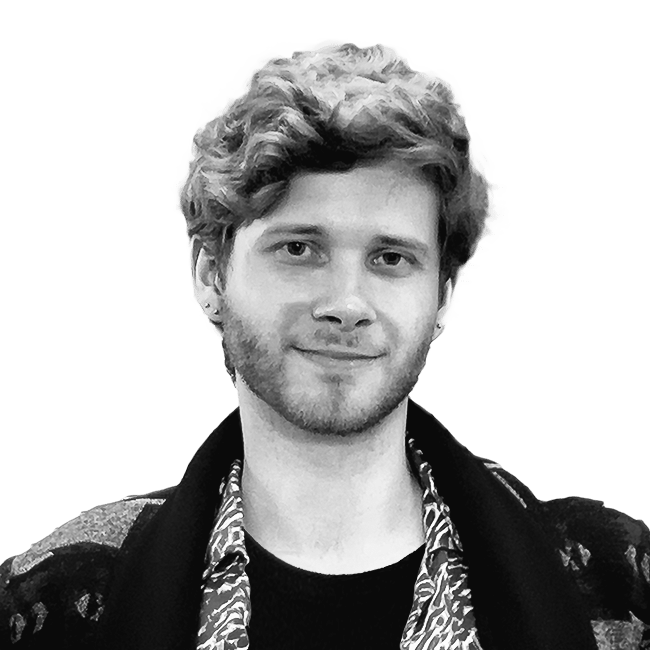
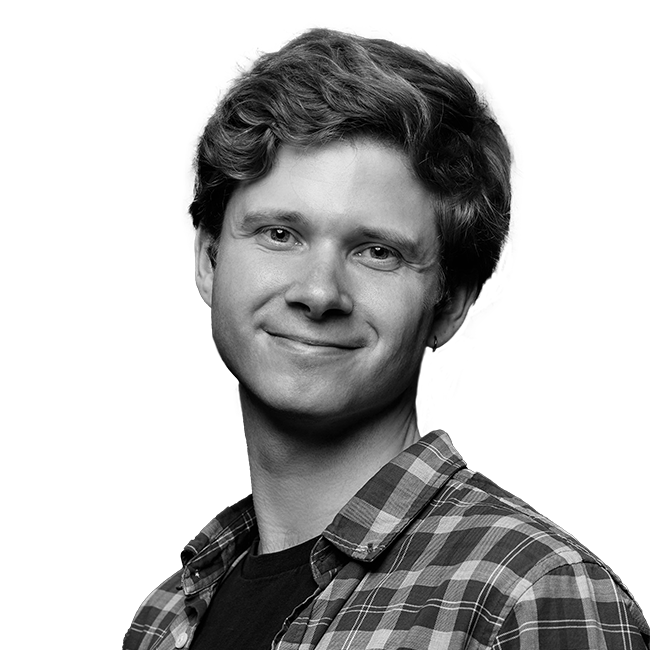
Update profile photo

Pull request: Update profile photo

diff --git a/components/ProfilePhoto.vue b/components/ProfilePhoto.vue
@@ -3,7 +3,7 @@
     class="profilephoto"
     @click="randomiseProfile"
   >
-    <img src="/me.png?v=6">
+    <img src="/me.png?v=7">
     <div class="profilephoto-bg" />
   </div>
 </template>